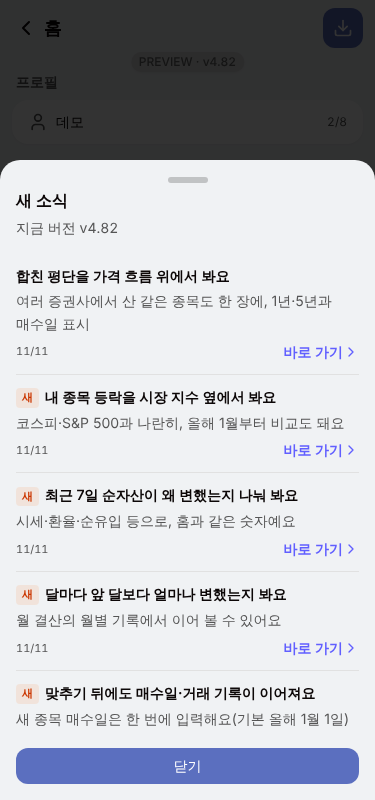
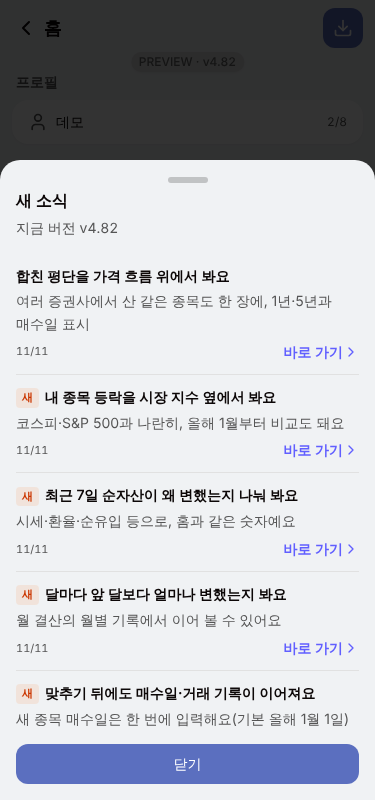
memory: 4.82 qa FAIL(D1 읽음 id·D2 신규 조용한 기록)

Changed region(s): [[0.0587, 0.9062, 0.9387, 0.9688]]

diff --git a/issues/4.82-159-whats-new/4.82-qa-report.md b/issues/4.82-159-whats-new/4.82-qa-report.md
@@ -1,0 +1,70 @@
+# 4.82 새 소식 (#159) — qa 보고서
+
+대상: issue-4.82 HEAD ad63b26(256d941 + UI 경미 2건). preview 배포 확인(U+2060·닫기 40px 반영). 테마는 theme_mode 쿠키 강제, 캡처마다 html class·배경 RGB 로그(C81). 스크린샷: screenshots/.
+
+## 최종 판정: FAIL (결함 2건, 모두 developer 수정 필요)
+
+## 결함 확인
+| # | 내용 | 판정 | 영향 |
+|---|---|---|---|
+| D1 | 읽음 기록 id가 시드 최신이 아니라 `20261111-01`로 쓰임. `latestEntryId`가 `entries[0]`을 쓰는데 정렬이 같은 날 NN 오름차순이라 맨 위 = 그날 가장 작은 NN. 비교는 `id > 기록 id`라 -02~-08이 계속 '안 본 항목'. 재현(preview `?demo=1`): 팁 클릭 → 시트 → `secretasset_notice_seen.id`=20261111-01. 더보기 > 새 소식 보기로 재열람 시 `새` 5개가 다시 붙음. seenAt을 8일 전으로 두면 팁 `새 소식 7개`가 같은 소식으로 다시 뜸(-08 기록이면 안 뜸). 단위 테스트는 기록 픽스처를 -08로 직접 넣어 통과(home-tip.test.ts 198·211행) — 실제 쓰기 경로를 안 탐 | 확정 | 데이터 손실 0. 기존 사용자 전원이 읽은 소식을 7일 뒤(게시 30일까지) 한 번 더 팁으로 봄. AC3 '새' 정의·AC4(id=시드 최신) 위반 |
+| D2 | 첫 실행 조용한 기록이 자산 0 신규에서 실행되지 않음. 홈 팁 effect는 HomeTipBox 안에 있고 HomeTipBox는 Dashboard에만 마운트(자산 없으면 page.tsx가 웰컴 화면). 새 브라우저 `/` 후 키 null(AC8 전반부 FAIL), `?demo=empty`도 null. 첫 자산 등록 뒤 Dashboard가 처음 마운트될 때는 hasAssets=true라 조용한 기록 분기가 꺼져 `새 소식 8개`가 신규 사용자에게 바로 뜸(spec 4-9·9 위반). 위저드 등록 완주는 미실행(키 null 관찰 + 마운트 조건 코드 근거) | 확정 | 신규 사용자에게 가입 전 소식 노출. 데이터 손실 없음 |
+수정 방향: D1 `latestEntryId`를 `compareIds` 최대값으로(또는 기록 쓰기 단위 테스트를 실제 `markWhatsNewSeen` 후 판정으로 교체). D2 조용한 기록을 항상 마운트된 `WhatsNewHost`(layout)에서 `isDataLoaded && !hasAnyAssets` 때 수행(체험·잠금 제외), 사용 테스트는 마운트 조건 포함.
+
+## 자동 검사 (ad63b26)
+| 항목 | 결과 |
+|---|---|
+| npx tsc --noEmit | PASS |
+| npx vitest run src | PASS 142파일·1981 |
+| npm run lint | PASS 에러 0(경고 52, 기존) |
+| npm run build | PASS |
+
+## spec 완료 기준 15
+| # | 판정 | 근거 |
+|---|---|---|
+| 1 | PASS | 새 브라우저 `?demo=1` 팁 `새 소식 8개`(배지 `소식`), 설명 `합친 평단을 가격 흐름 위에서 봐요`, 기록 키 없음 |
+| 2 | PASS | 11/28 주입: 임박 세금(11/30)이 먼저, 12/05 주입: 팁=`11월 결산이 열렸어요`. X → 팁 없음·키 null, 같은 세션 새로고침도 없음, 새 세션은 결산 재노출(읽음 아님) |
+| 3 | FAIL(D1) | `whats-new-sheet` 열림, 항목 8개 시드 순서, `새` 5개, `v4.82`는 PASS. 재열람 시 `새` 재표시는 D1 |
+| 4 | FAIL(D1) | 새 세션 팁 없음은 PASS, 그러나 id=20261111-01(시드 최신 -08 아님) |
+| 5 | PASS | 팁 X → 키 쓰임·시트 안 열림·새 세션 팁 없음 |
+| 6 | PASS(부분) | 새 항목 추가 불가라 기록 id를 어제로 두고 검증: seenAt -6일 → 팁 없음, -7일-1분 → `새 소식 8개`, -7일+1분 → 없음. 단 실제 쓰기값(-01)에서는 D1 |
+| 7 | PASS | D-02 시장과 나란히(올해 열 있음), D-03 자산 변화 주 탭(최근 7일), D-07 인증카드 열림, D-08 버튼 없음, 시트 닫힘 확인 |
+| 8 | FAIL(D2) | 자산 0 신규: 팁 없음은 PASS, 키 최신 id 기록은 FAIL(null). 기존 데이터 첫 렌더 키 쓰기 0건 PASS(setItem 감시 0회) |
+| 9 | PASS(단위) | home-tip.test.ts 195·248행(새 소식 > relink, 읽은 뒤 relink). preview는 relink 후보 데이터 구성 불가로 단위 근거. 단 '읽은 뒤' 테스트는 D1 때문에 실제 기록값과 다름 |
+| 10 | PASS | 더보기 > `앱 가이드 · 새 소식` > `새 소식 보기`(`more-whats-new`) 7일 무관 열림 |
+| 11 | PASS | grep isNew·신규 배지 0, feature-usage 테스트 |
+| 12 | PASS | gtag 모킹: 시트 열기 page_title `새 소식` 1건, 바로 가기 click `새 소식` 1건, D-03 `성과·자산 변화·최근 7일`(change_week_all) 1건. GA 실서버 미접속(preview에 gtag 없음)이라 이벤트 파라미터 source는 vitest(ga.test) 근거 |
+| 13 | PASS | `/?trial=1` 팁 새 소식 아님, 체험 뒤 같은 출처 새 탭에서 원본 키 값 동일, 시트·기록 0 |
+| 14 | PASS | 형식·정렬·compareIds·7일 경계·우선순위 테스트 존재·통과(단 D1·D2는 놓침) |
+| 15 | PASS | tsc·lint·vitest·build, notice.tsx 삭제, 저장·동기화·서버 전송 diff 0(diff 경로: 키 의미만 변경, asset-storage·cloud-sync·api 무변경) |
+
+## 중점 점검
+- ① 노출 규칙: 결산>새 소식, 백업·임박 세금>새 소식은 PASS. X·팁 클릭 시 세션 박스 숨김 PASS. 같은 날 id 비교는 D1.
+- ② S7: 기존 사용자 첫 로드(키 없음·20260924·`{}`·id 숫자) 팁 `새 소식 8개`·읽음 처리 0(setItem 0). 만료·깨진 JSON은 init 정리가 키를 지울 뿐 읽음 쓰기 아님. 체험 판정·기록 0. 자산 0 조용한 기록은 D2.
+- ③ 사실 확인: D-01 `종목 보기 ›` 존재, 상세 주식 이동. D-02 `올해` 열. D-04 자산 변화 탭에 `월별 기록` 있음(월 기간이 기본). D-06 주식 행 칩 `11/11 종가`·헤더 `종가`. D-07은 4.80 코드(StockRowHeader 인증카드 주식 현황 행 수량 `••••주`)와 일치, 다른 카드 종류의 수량은 대상 아님(문구가 `주식 현황`으로 한정) PASS. D-05(기본 올해 1월 1일)는 4.74 결정과 일치.
+- ④ 더보기 PASS. ⑤ `isNew`·`NOTICE_ID`·`markCurrentNoticeSeen`·`NOTICE_SHOWN` 잔존 0, 기존 홈 팁(임박 세금·결산·백업·최신화·기능) 회귀 테스트 통과.
+- ⑥ GA 위 12번. 홈 팁 view 이벤트는 기존 `home_tip` 그대로.
+- ⑧ 320·375·1280 × 라이트·다크 가로 넘침 0(scrollWidth=clientWidth), 앱 코드 콘솔 오류 0. 콘솔의 vercel.live feedback.js MIME 오류·ERR_TUNNEL_CONNECTION_FAILED는 preview 툴바·샌드박스 egress 차단(앱 무관).
+- 증분(ad63b26): 320 라이트·다크 D-01 `1년·5년과`, D-07 `••••주로`가 어절 중간 끊김 없이 줄바꿈(다음 줄로 통째 이동). 닫기 버튼 40px(320·375·1280). U+2060은 화면 텍스트 복사에 비가시 문자로 포함되나 GA 이벤트·page_title에는 쓰이지 않음(본문 body는 시트 표시 전용) — 문제 없음. 기존 `MARKET_PAIR_TEXT`·`security-copy`가 같은 관행.
+
+## 데이터 안전 점검
+| 점검 | 결과 |
+|---|---|
+| 옛 데이터 읽기 | PASS: 20260924·`{}`·숫자 id·만료·깨진 JSON 전부 기록 없음 취급, 크래시 0 |
+| 새 데이터를 이전 버전이 읽기·롤백 | PASS(코드): 구버전은 `id !== "20260924"`이면 9월 공지를 1회 다시 띄우고 단일 키를 덮어씀. 자산 데이터 손실 0, 결산 창 중이면 그 세션 결산이 가려지는 점은 spec S3 기재대로 |
+| 구·신버전 기기 혼재 동기화 | 해당 없음: 이 키는 동기화 payload 제외(asset-storage 무변경, diff 경로 확인) |
+| 공유 토큰·백업 왕복 | 해당 없음: diff가 buildExportPayload·토큰·pack/unpack을 건드리지 않음 |
+| 집계·보존 범위 | 해당 없음 |
+| 렌더·effect 쓰기(C16) | PASS: notifyAssetUserEdit·saveAssetData·setAssetData 호출 없음, 키 쓰기는 사용자 동작·조용한 첫 실행뿐 |
+| 서버 전송 | PASS: preview 비-GET 요청 0 |
+
+## 원칙 검사
+네트워크 자산 값 0 PASS / 투자 조언 문구 0 PASS / 스키마 변경 없음(키 의미만, 마이그레이션 불필요, 레거시 정리 테스트 통과) / 공유 이미지 금액 해당 없음 / preview 동기화 쓰기 변경 없음 PASS.
+
+## CHECKLIST (C1~C82)
+- FAIL: 없음(D1·D2는 spec 완료 기준 FAIL로 판정. C20 '기존 사용자의 실제 데이터 형태'에서 실제 쓰기 경로 대신 -08 픽스처를 쓴 점이 D1을 가림 — 회고 후보).
+- C25 PASS(320·375 어절 점검, 전수 문구 D-01~D-08·팁·더보기·시트), C38 PASS(결산 우선, 창 12/05 실측), C81 PASS(캡처별 html class·bg 로그: 라이트 ``/lab(95), 다크 `dark`/lab(3.7)), C82 PASS(시드 8개 금액·투자 판단·보장 어휘 0, 사실 확인 완료. PR 본문 `새 소식:` 한 줄은 PR 생성 시 확인 필요), C57 PASS(더보기에 기능 진입 이동 없음, 새 소식 보기는 정보 진입).
+- C16·C10·C6·C13·C65 등 나머지 해당 항목: 해당 없음(저장·동기화·시세·금액 계산 diff 0) 또는 위 표 PASS.
+
+## 회귀(F-WHATS-NEW 등)
+홈 팁 종류별 노출·X 세션 숨김·체험·앱 잠금 판정 PASS. 사용자 기록 손실 가능성 없음.
